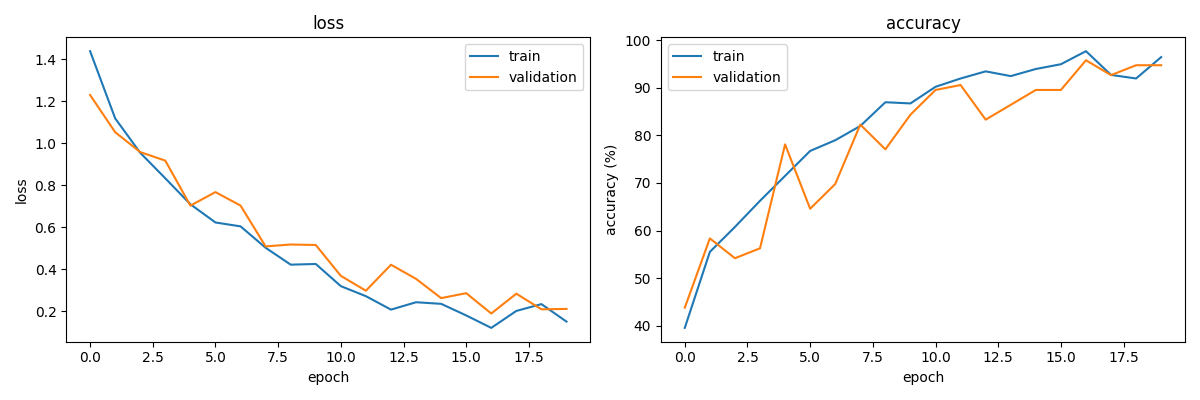
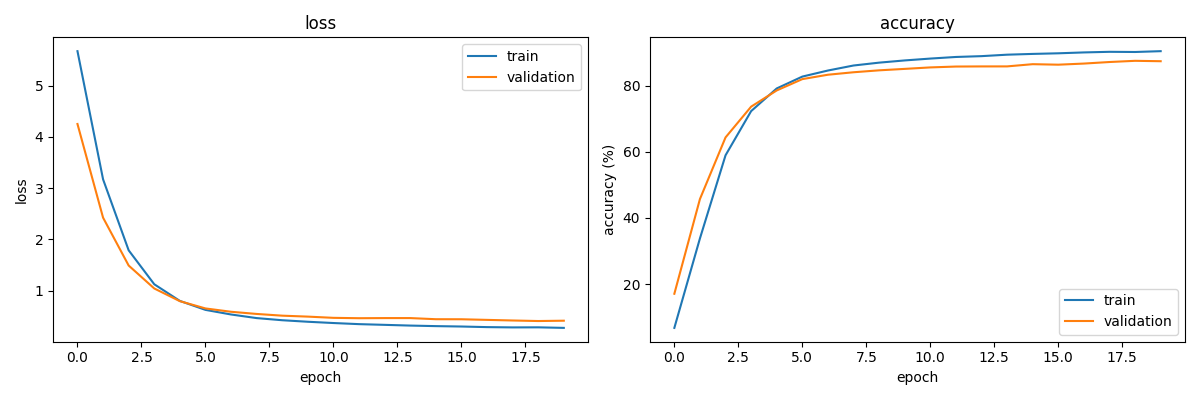
training with the entire dataset

diff --git a/main.py b/main.py
@@ -31,19 +31,18 @@ class SignLanguageDataset(Dataset):  # define custom dataset class
                 word_counts[word] = len(instances)  # store count
                 word_instances[word] = instances  # store instances
 
-        top_words = sorted(word_counts.items(), key=lambda x: x[1], reverse=True)[:5]  # get top 5 words
-        top_words = [word for word, _ in top_words]  # extract word names
-        print(f"top 5 words: {top_words}")  # log top words
+        all_words = sorted(word_counts.keys())  # get all words
+        print(f"total words: {len(all_words)}")  # log total words
 
         self.word2idx = {'<PAD>': 0, '<UNK>': 1}  # initialize word-to-index map
-        for word in top_words:  # assign index for each word
+        for word in all_words:  # assign index for each word
             self.word2idx[word] = len(self.word2idx)
 
         self.samples = []  # list of all (path, label, vid)
         word_sample_counts = Counter()  # track sample count per word
 
         print("\npreparing samples...")  # log sample preparation
-        for word in tqdm(top_words, desc="processing words"):  # loop through each word
+        for word in tqdm(all_words, desc="processing words"):  # loop through each word
             instances = word_instances[word]  # get instances for word
             num_augment = max(1, (100 - len(instances)) // len(instances) + 1)  # determine how many augmentations needed
             for instance in instances:  # loop through instances
@@ -217,6 +216,10 @@ def train():  # train the model
         val_accuracies.append(val_acc)
 
         print(f"\nepoch {epoch+1} - train acc: {train_acc:.2f}%, val acc: {val_acc:.2f}%")
+    
+    # save the trained model
+    torch.save(model.state_dict(), 'trained_model.pth')
+    print("Model saved to 'trained_model.pth'")
 
     plt.figure(figsize=(12, 4))  # plot figure
     plt.subplot(1, 2, 1)  # loss subplot
